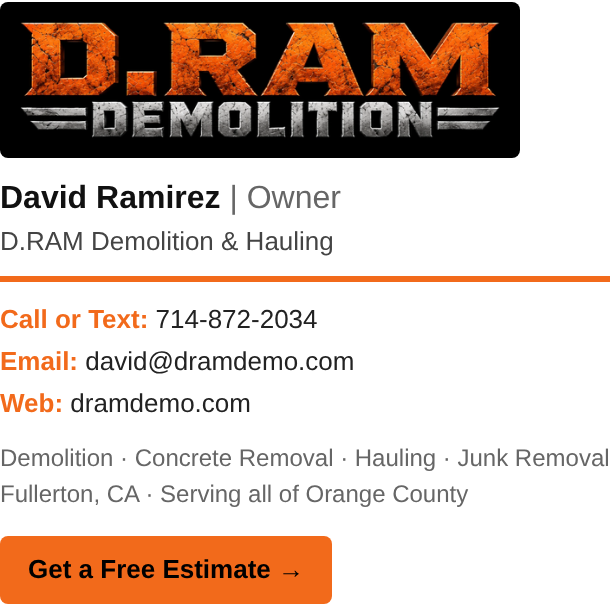
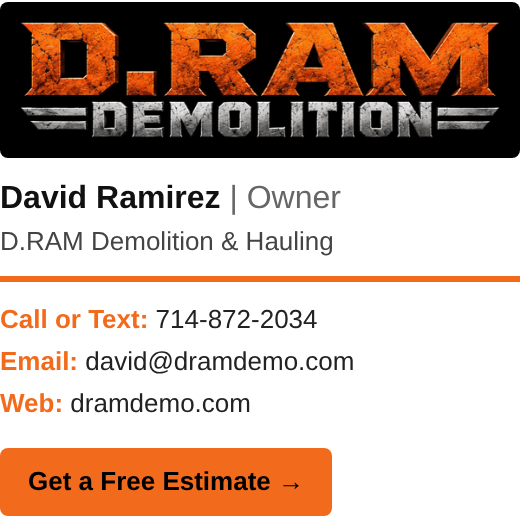
Simplify email signature: remove services line
Claude-Session: https://claude.ai/code/session_01RfWacy7b9JSVXazcrdoKz6

diff --git a/handoff/email-signature/signature.html b/handoff/email-signature/signature.html
@@ -56,12 +56,6 @@
     </td>
   </tr>
   <tr>
-    <td style="padding:8px 0 0 0;font-size:12px;line-height:18px;color:#666666;white-space:nowrap;">
-      Demolition &middot; Concrete Removal &middot; Hauling &middot; Junk Removal<br>
-      Fullerton, CA &middot; Serving all of Orange County
-    </td>
-  </tr>
-  <tr>
     <td style="padding:12px 0 0 0;">
       <a href="https://dramdemo.com/estimate/?utm_source=email_signature&amp;utm_medium=email" style="display:inline-block;background:#f26a1b;color:#000000;font-size:13px;font-weight:bold;line-height:16px;padding:9px 14px;border-radius:4px;text-decoration:none;">Get a Free Estimate &rarr;</a>
     </td>
